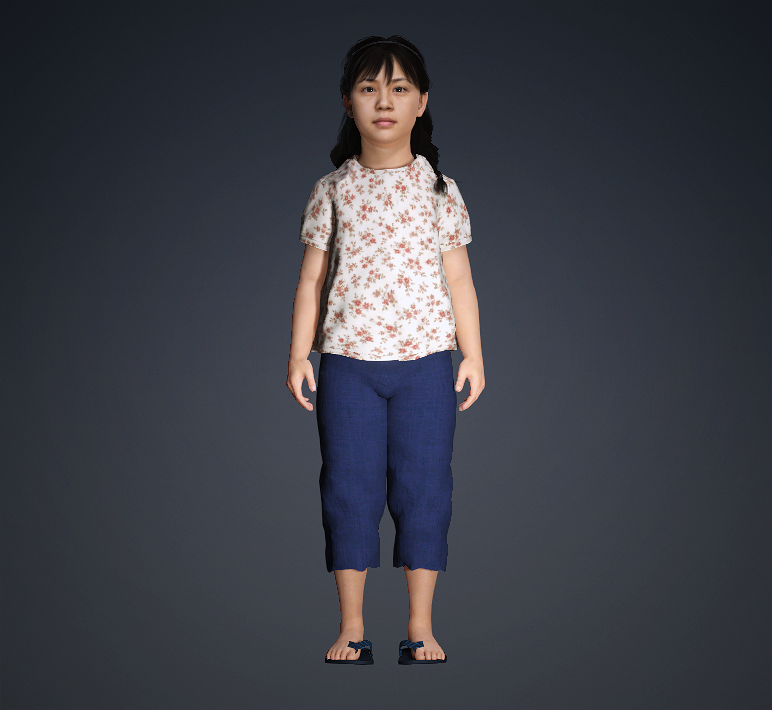
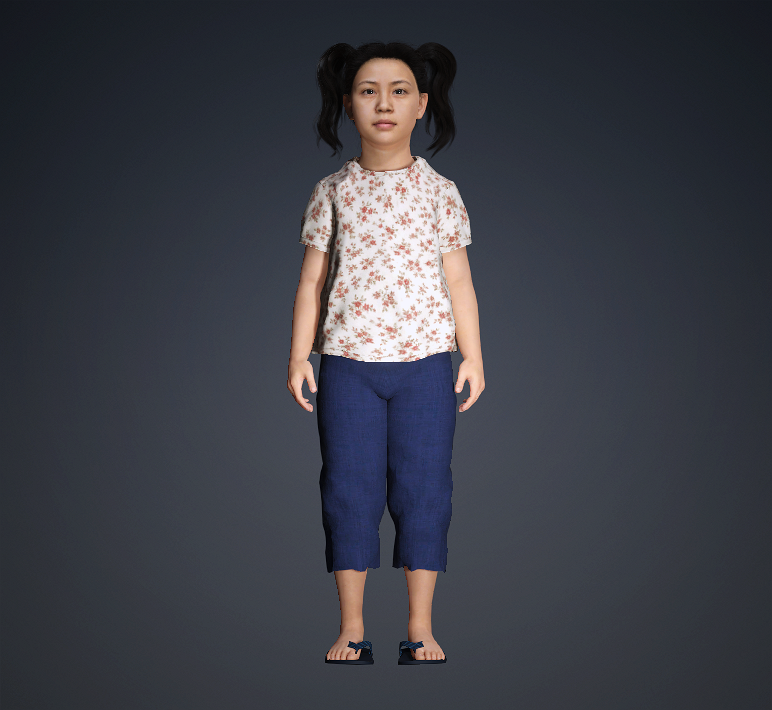
build.py new_hair option; Orawan child twin ponytails

Changed region(s): [[0.3731, 0.031, 0.6218, 0.5268], [0.5907, 0.5268, 0.6218, 0.5887], [0.3731, 0.5268, 0.4041, 0.5887]]

diff --git a/cc5/build.py b/cc5/build.py
@@ -44,7 +44,7 @@ def build(here):
     av = RLPy.RScene.GetAvatars()[0]
 
     def strip():
-        keep_hair = job.get("load_project")  # re-dress keeps the project's hair (some hairs load ~6 min)
+        keep_hair = job.get("load_project") and not job.get("new_hair")  # new_hair: swap it; re-dress keeps the project's hair (some hairs load ~6 min)
         for o in list(av.GetClothes()) + ([] if keep_hair else list(av.GetHairs())) + list(av.GetAccessories()):
             RLPy.RScene.RemoveObject(o)
 
@@ -62,7 +62,7 @@ def build(here):
     if job.get("morphs"):
         step("morphs", morphs)
     for item in job["items"]:
-        if job.get("load_project") and item.lower().endswith((".rlhair", ".cchair", ".ihair")):
+        if job.get("load_project") and not job.get("new_hair") and item.lower().endswith((".rlhair", ".cchair", ".ihair")):
             continue  # the loaded project already has its hair
         def load(item=item):
             before = set(o.GetName() for o in av.GetClothes())
